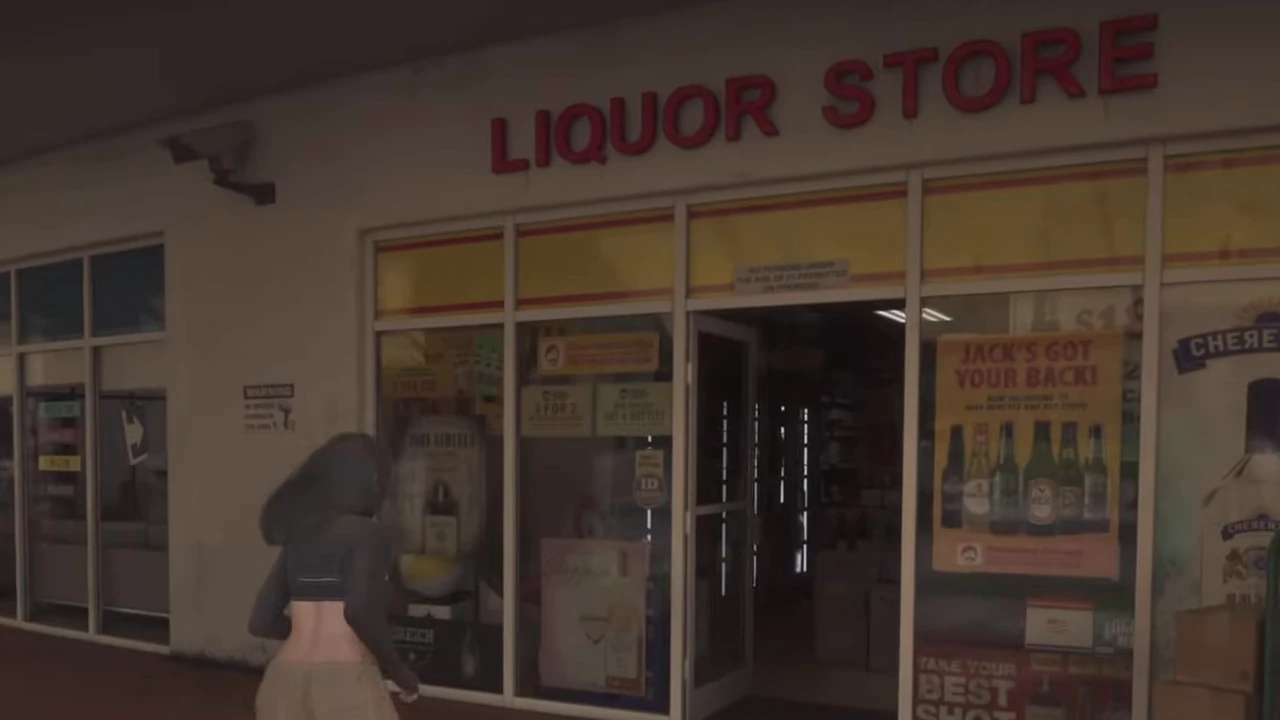
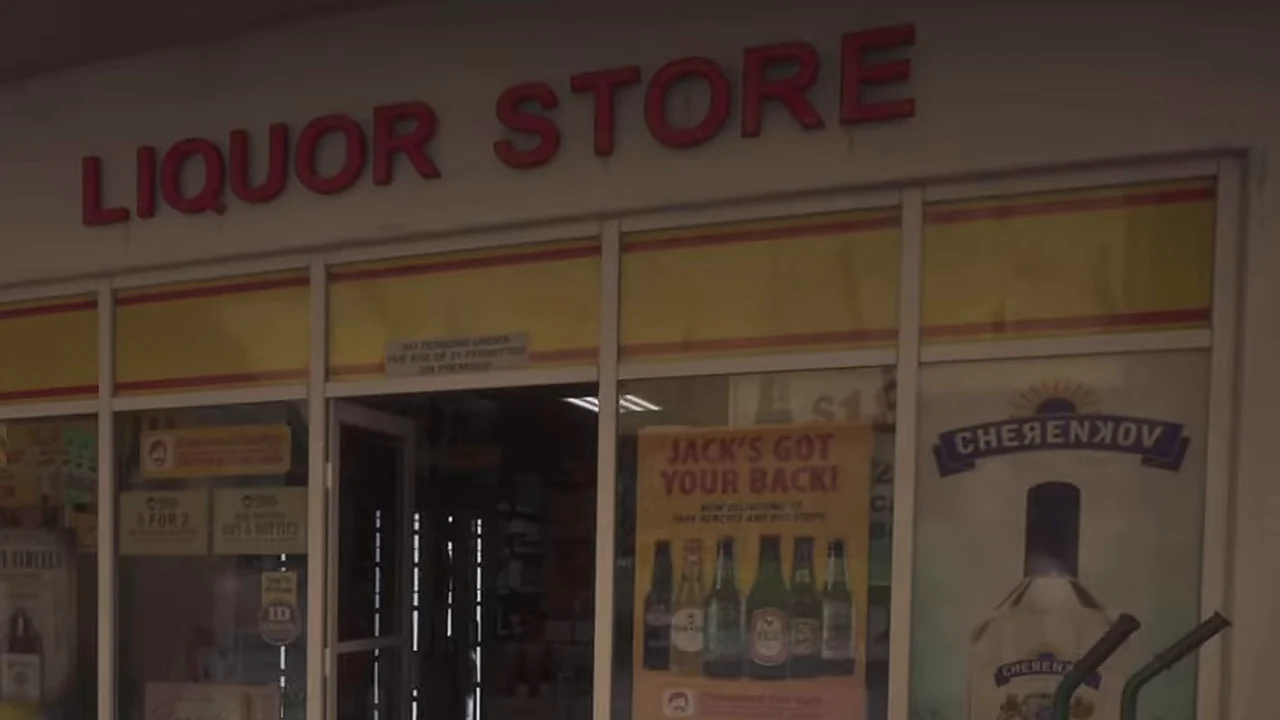
Keep only the sharper Uncle Jack's Bayside still
Replace the Bayside storefront with a clearer gameplay frame and drop the Nola shopfront, which still had a character crossing the door. Nola stays on the typographic card.

diff --git a/src/data/launch/expansion.ts b/src/data/launch/expansion.ts
@@ -219,7 +219,7 @@ const brands: ExtraEntry[] = [
   chain("Alpha Sports", "Sportswear", "Downtown, Ocean Beach and Waning Sands"),
   chain("Endzone", "Sportswear", "Downtown, Ocean Beach and Washington Beach"),
   { ...chain("Eris", "Sportswear", "Vice-Dale County"), image: "/images/footage/brands/eris.webp" },
-  { ...chain("Nola", "Formal", "Capri, Peacock Bay, Ocean Beach and Decor District"), image: "/images/footage/brands/nola.webp", imageAlt: "The Nola shopfront in Bounty Plaza Mall, Peacock Bay, with NOLA over the door and a mannequin in a tiger-print dress in the window" },
+  chain("Nola", "Formal", "Capri, Peacock Bay, Ocean Beach and Decor District"),
   chain("Ferruccio Tucci", "Formal", "Capri, Ocean Beach, Decor District and Waning Sands"),
   { slug: "ammu-nation", name: "Ammu-Nation", group: "Store chains", meta: "24 gun stores", image: "/images/footage/brands/ammu-nation.webp", summary: "Leonida's gun store chain, with 24 branches across five counties.", links: [{ href: "/ammu-nation-locations", label: "All 24 stores" }] },
   { slug: "pay-n-spray", name: "Pay 'n' Spray", group: "Store chains", meta: "19 shops", summary: "The repaint chain. Lose the cops or sell older cars.", links: [{ href: "/where-to-find/pay-n-spray", label: "All 19 shops" }] },

diff --git a/lib/simple/placeImages.ts b/lib/simple/placeImages.ts
@@ -49,17 +49,12 @@ const delights: PlaceImage = {
   alt: "The Delights Cabaret sign at night, with neon Girls signs and a marquee",
 };
 
-const nola: PlaceImage = {
-  src: `${F}/brands/nola.webp`,
-  alt: "The Nola shopfront in Bounty Plaza Mall, Peacock Bay, with NOLA over the door and a mannequin in a tiger-print dress in the window",
-};
 const uncleJacksBayside: PlaceImage = {
   src: `${F}/places/uncle-jacks-liquor-bayside.webp`,
   alt: "Uncle Jack's Liquor in Bayside, with LIQUOR STORE over the windows and a Jack's Got Your Back poster by the door",
 };
 
 const PLACE_IMAGES: Record<string, PlaceImage> = {
-  "/where-to-find/clothing-stores/nola": nola,
   "/where-to-find/liquor-stores/uncle-jacks-liquor-bayside": uncleJacksBayside,
   "/where-to-find/gun-stores": bigShots,
   "/where-to-find/gun-stores/chucks-tackle-and-shot": chucks,
